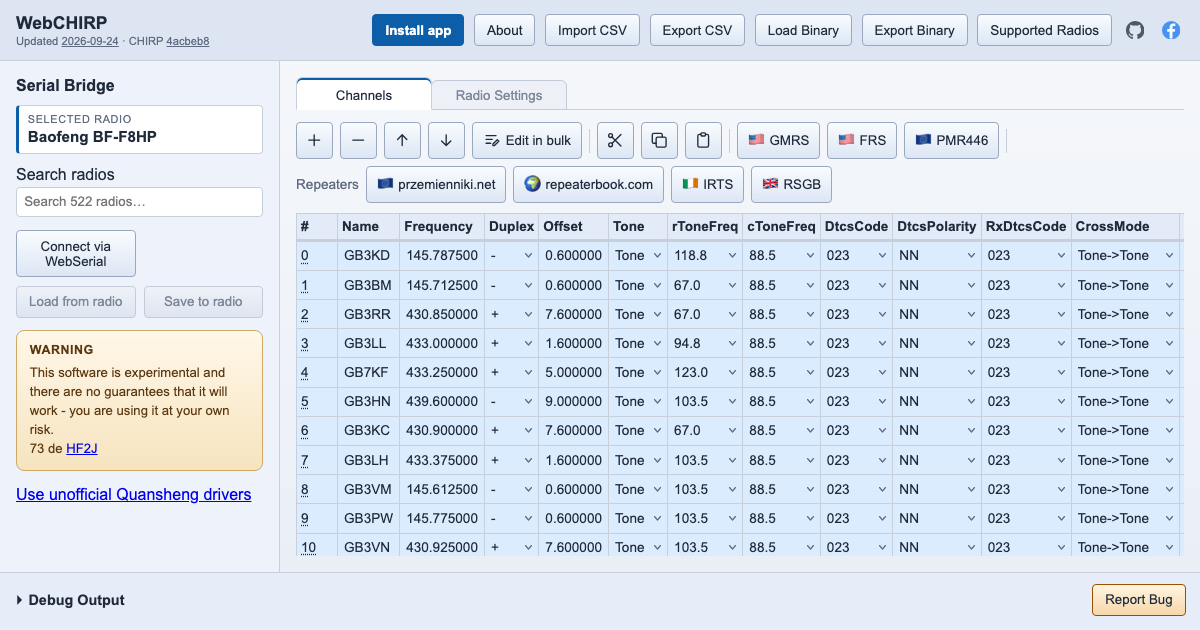
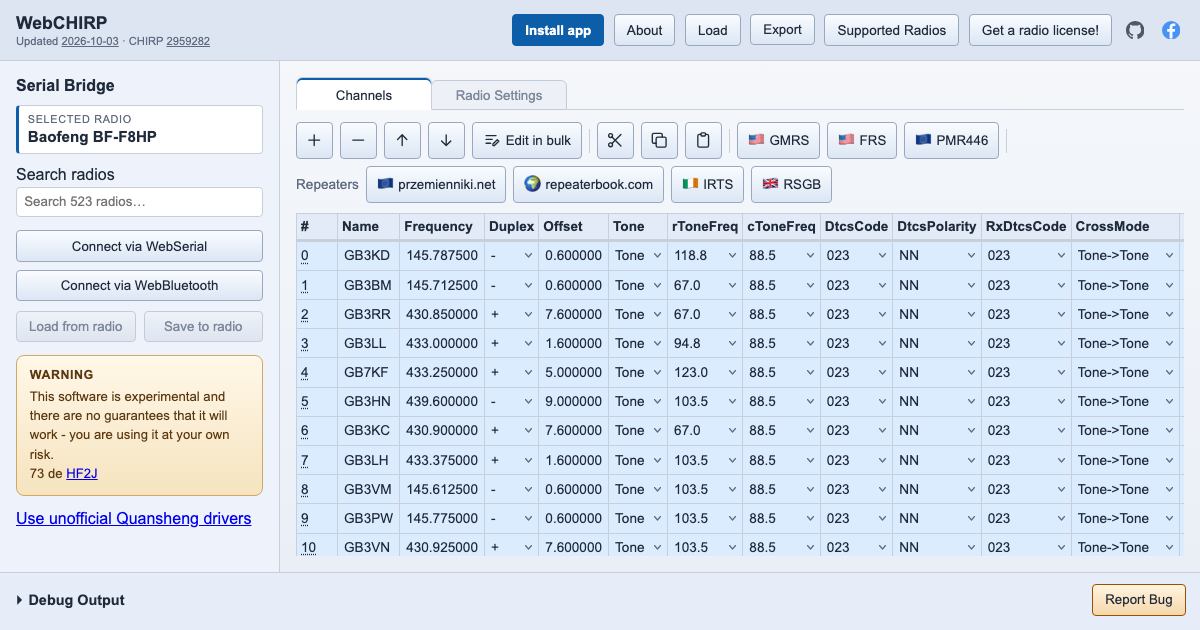
Release notes for 2026-10-03 and refreshed screenshots
Adds the 2026-10-03 entry covering #200-#210 and the CHIRP 29592824
pin, and regenerates the README, Open Graph, social preview and install
screenshots from the current app (RSGB channels around IO82MM).

Changed region(s): [[0.0, 0.3619, 0.2467, 0.8444], [0.3083, 0.0, 0.925, 0.0905], [0.1542, 0.0603, 0.185, 0.0905]]

diff --git a/RELEASE_NOTES.md b/RELEASE_NOTES.md
@@ -1,5 +1,15 @@
 # Release Notes
 
+## 2026-10-03
+- BT-1AD Bluetooth programming adapters can now connect through a new Connect via WebBluetooth button, shown on browsers that support WebBluetooth (#210).
+- Every radio's model page now has a researched hardware table (battery, charging, power, bands, modulations, display, APRS/GPS and more) with its sources cited (#202).
+- Added amateur radio licensing guides for 81 countries, each in the local language with an English toggle, with cited steps, costs, timelines and CEPT visiting rules (#206, #208, #209).
+- One Load button now opens both CSV and `.img` files, and an Export menu replaces the separate CSV and binary export buttons (#204).
+- Drivers now load from one archive on webchirp's own server instead of module by module from a CDN, so browsers without WebAssembly stack switching can start the app and edit files (#201).
+- Updated the bundled CHIRP to 29592824. This adds the Retevis RT97S and fixes the Wouxun KG-UV920P-A checksum and Alinco upload after download. Images without CHIRP metadata no longer open as an unrelated radio of the same size.
+- The selected radio is now one runtime session, so a slow load can no longer overwrite a newer selection; no user-visible change (#203).
+- JS now calls the Python runtime through one checked dispatch contract instead of evaluating Python strings; no user-visible change (#200).
+
 ## 2026-09-24
 - The per-model pages now cover the whole catalog rather than just the 55 Baofengs: 535 radios across 62 vendors, each described from its own driver, with a hub page for the 31 vendors that have more than one radio.
 - Each model page now says whether the radio's firmware can be updated and where to get it; 465 of the 535 answer, and the rest show no section rather than guess a download that could brick a radio (#190).
